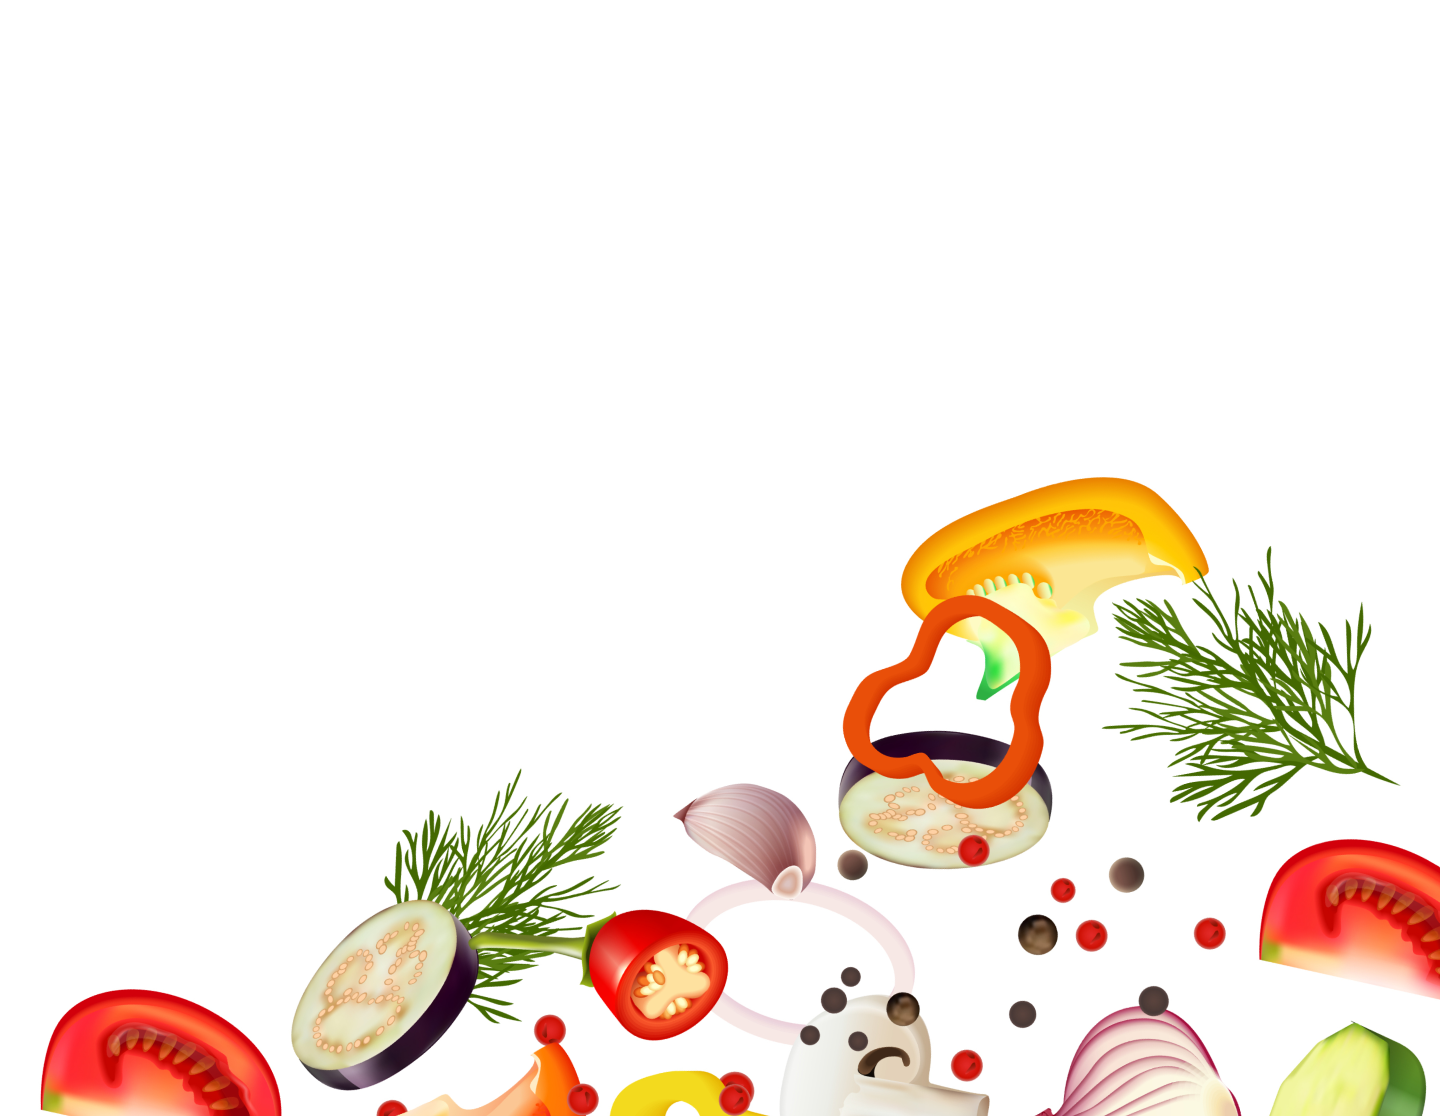
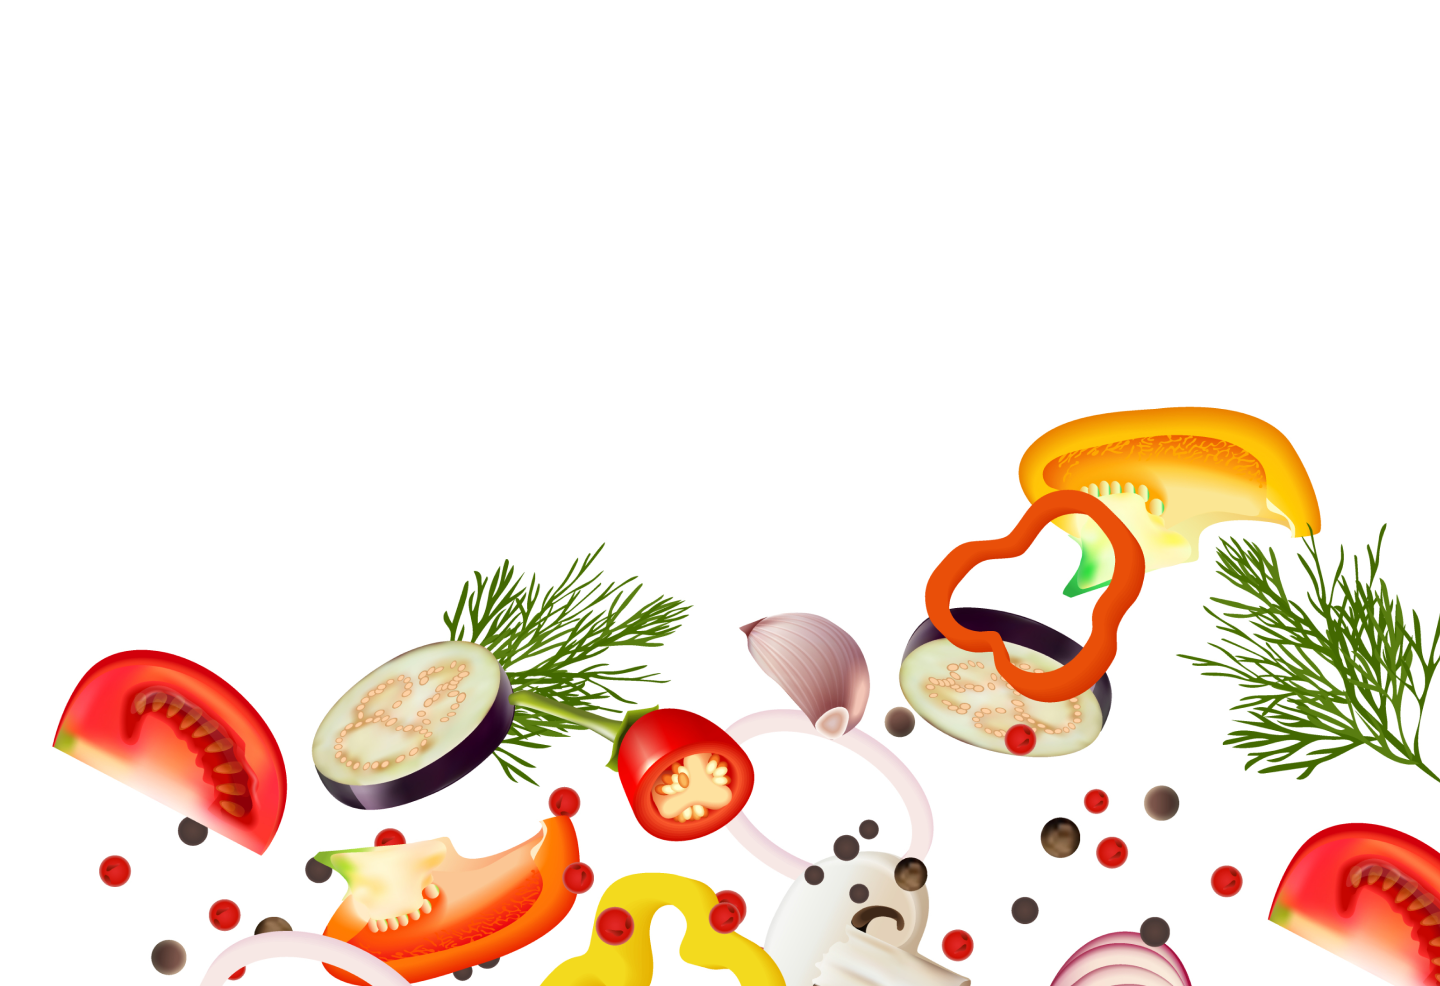
responsive fixes

Changed region(s): [[0.0312, 0.3955, 1.0, 1.0], [0.6875, 0.8824, 0.7188, 0.9432]]

diff --git a/src/pages/Home.jsx b/src/pages/Home.jsx
@@ -8,10 +8,10 @@ import { routes } from "../Utilities/Routes";
 const Home = () => {
   const navigate = useNavigate();
   return (
-    <Container fluid className="home-body">
+    <Container fluid className="p-0 home-body">
       <Navbar className="nav-bar">
         <Container>
-          <Navbar.Brand href="#home">
+          <Navbar.Brand href="/">
             <img src={IMAGES.logo} alt="cyberlogo" />
           </Navbar.Brand>
           <div className="d-flex gap-3 h6 align-items-center">
@@ -21,7 +21,7 @@ const Home = () => {
         </Container>
       </Navbar>
       <Row className="mx-5 morePadding"> 
-        <Col className={'text-center text-md-start'} xs={12} md={6}>
+        <Col className={'text-center text-md-start'} xs={12} md={5}>
           <h1>Contact the Admin</h1>
           <p>
             Don’t panic.... quickly reach out to the Human 

diff --git a/src/App.css b/src/App.css
@@ -126,20 +126,20 @@ input:focus, select:focus {
 /* Home */
 .home-body {
   height: 100vh;
-  background-image: url('./assets/img/food.png');
-  background-position: 0% -300px;
-  background-repeat: no-repeat;
+  background: url('./assets/img/food.png') no-repeat center center fixed; 
+  -webkit-background-size: cover;
+  -moz-background-size: cover;
+  -o-background-size: cover;
   background-size: cover;
-  position: relative;
 }
 
 .onboarding-body {
   height: 100vh;
-  background-image: url('./assets/img/food-dark.png');
-  background-position: 0% -300px;
-  background-repeat: no-repeat;
+  background: url('./assets/img/food-dark.png') no-repeat center center fixed; 
+  -webkit-background-size: cover;
+  -moz-background-size: cover;
+  -o-background-size: cover;
   background-size: cover;
-  position: relative;
 }
 
 .morePadding {
